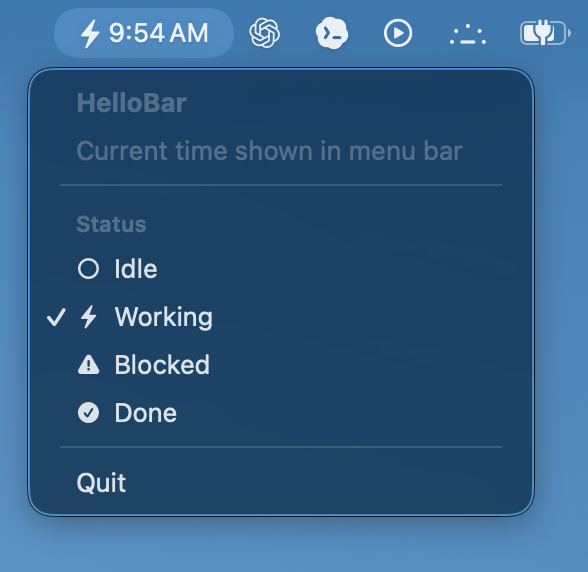
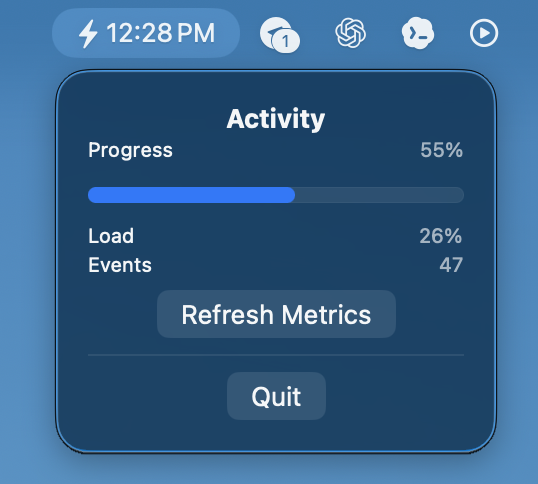
refactor: updated readme

Changed region(s): [[0.0297, 0.031, 0.9814, 0.9607], [0.7732, 0.4649, 0.8625, 0.5579], [0.4461, 0.7748, 0.5651, 0.8678]]

diff --git a/README.md b/README.md
@@ -1,14 +1,12 @@
 # HelloBar
 
-A small macOS menu bar app built with SwiftUI. Just a playground for learning.
-
-Right now it shows the current time in the menu bar with a simple status icon. Click the menu bar item to switch between Idle, Working, Blocked, and Done.
+A small macOS menu bar app built with SwiftUI. Just a playground for learning, doing whatever.
 
 ## Screenshot
 
-Add a screenshot here when the app has one:
-
 <img src="docs/screenshots/hellobar.png" alt="HelloBar menu bar popover" width="420">
+
+Older screenshots live in [docs/screenshots/history](docs/screenshots/history). The screenshot workflow is documented in [docs/screenshots/README.md](docs/screenshots/README.md).
 
 ## Run
 
@@ -18,13 +16,16 @@ Open `HelloBar.xcodeproj` in Xcode, select the `HelloBar` scheme, and press `Cmd
 
 ```text
 HelloBar/
-  HelloBarApp.swift        App entry point
-  ContentView.swift        Menu popover
+  HelloBarApp.swift        App entry point and menu bar scene
+  ContentView.swift        Activity popover
   TimeMenuBarLabel.swift   Menu bar label
-  BarStatus.swift          Status options
+  BarStatus.swift          Status enum and symbols
+  BarMetrics.swift         Sample and refreshed metric data
   Assets.xcassets/         App assets
 
-docs/screenshots/          Future screenshots
+docs/
+  distribution/            Packaging example files
+  screenshots/             Current and archived screenshots
 ```
 
 ## License

diff --git a/docs/screenshots/README.md b/docs/screenshots/README.md
@@ -1,0 +1,12 @@
+# Screenshots
+
+Keep this simple:
+
+- `hellobar.png` is the current screenshot used in the main [README.md](../../README.md).
+- `history/001.png`, `history/002.png`, `history/003.png` are older milestones.
+- Keep filenames numeric so you do not need to invent names for every image.
+- Put the meaning in a short note here instead of in the filename.
+
+## Milestones
+
+- `001.png` original status picker popover

diff --git a/AGENTS.md b/AGENTS.md
@@ -1,1 +1,3 @@
 READ `$HOME/Desktop/Projects/agent-skills/global/AGENTS.md` BEFORE ANYTHING (skip if missing).
+
+This is a playground repo. Do not over-do the README or any descriptions / formatting. Just keep things, simple, concise, and casual.
